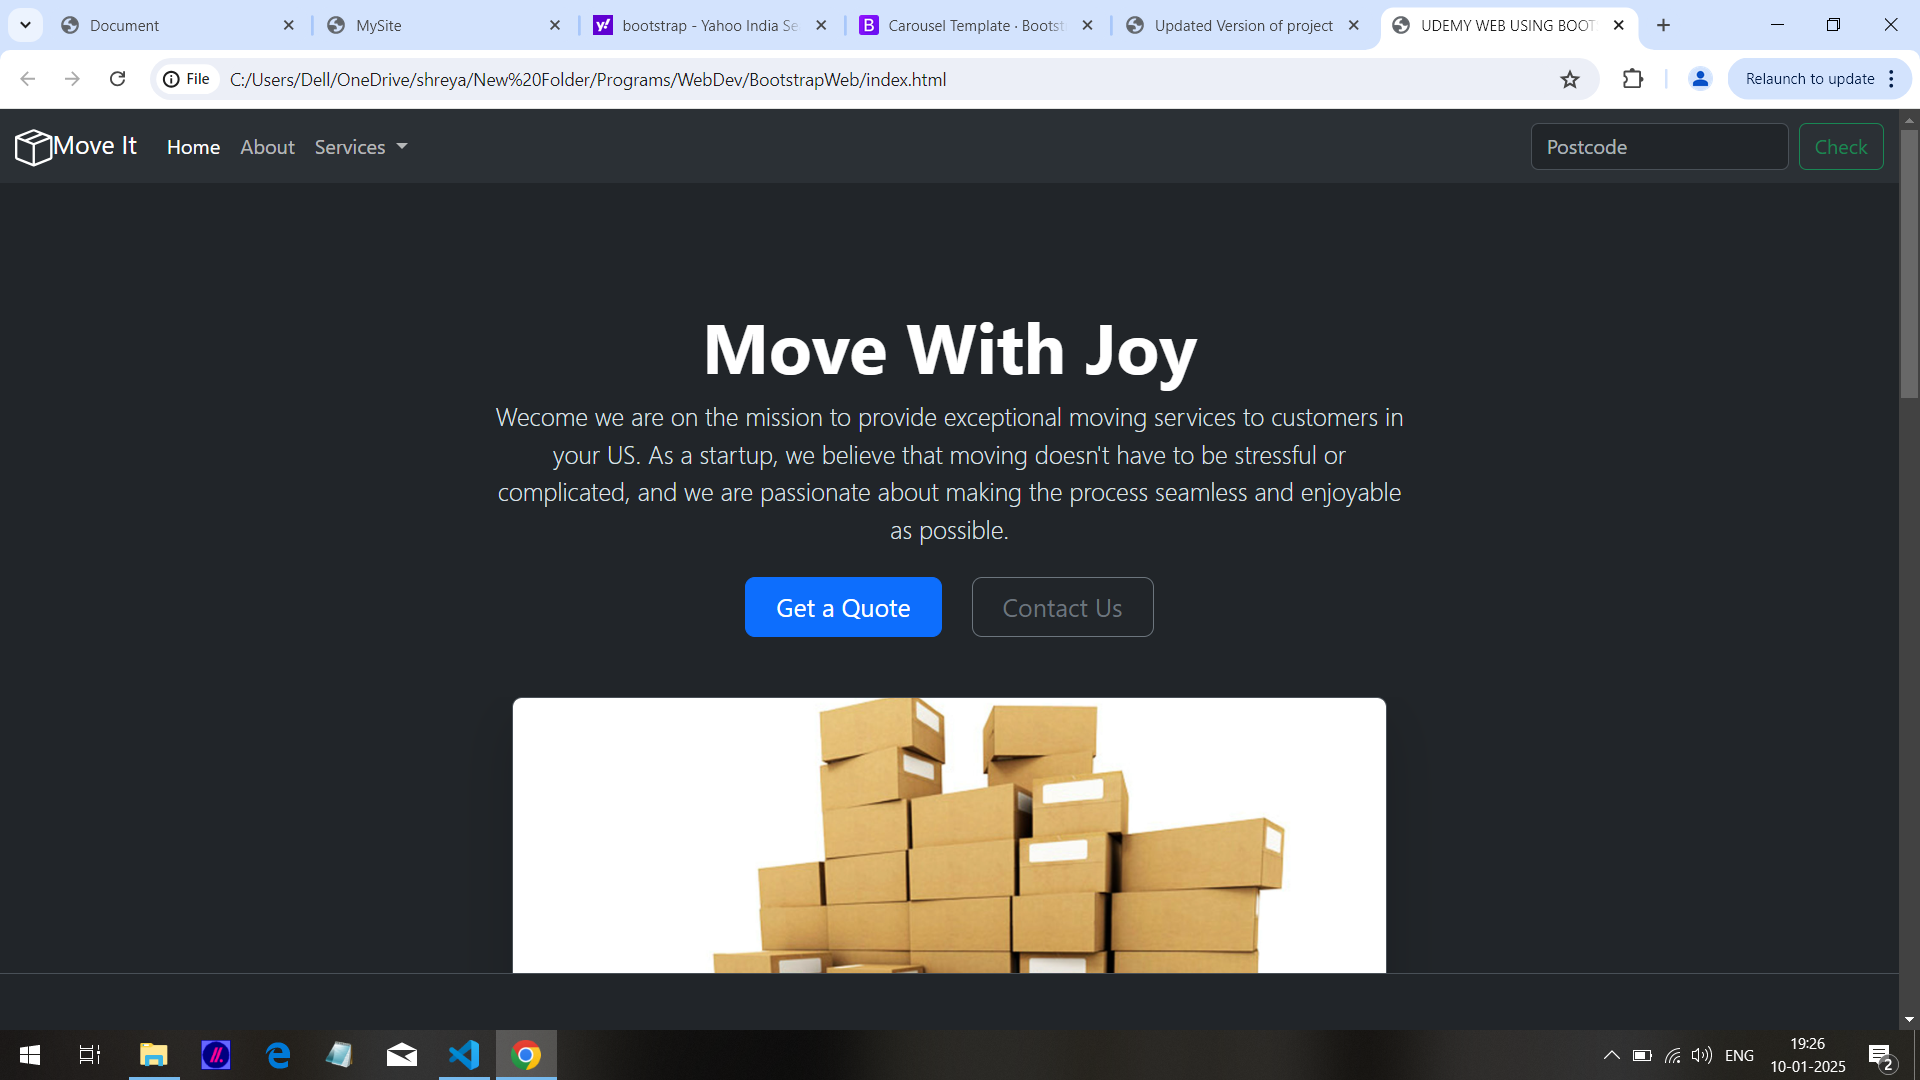
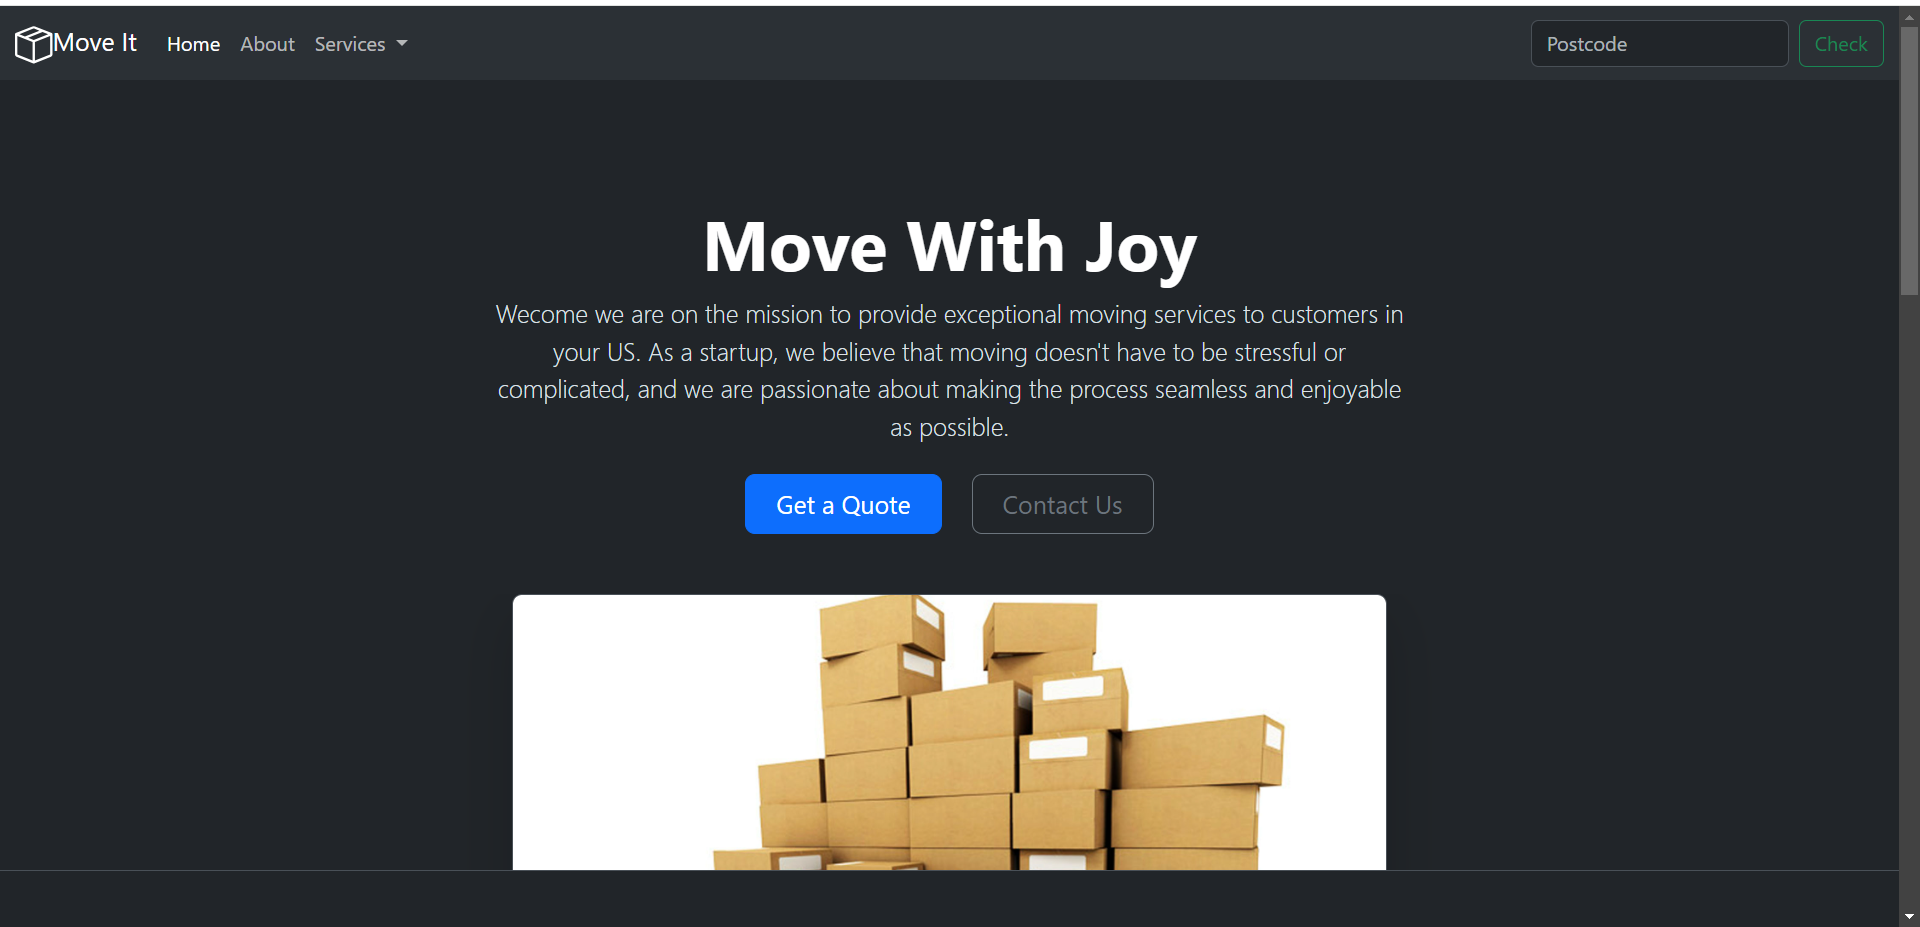
added project

diff --git a/src/components/Project/projects.jsx b/src/components/Project/projects.jsx
@@ -2,80 +2,224 @@ import Carousel from "react-bootstrap/Carousel";
 import styles from "./projects.module.css";
 
 const Projects = () => {
-  return (
-    <section className={styles.projectSection}>
-      <h1 className={styles.heading}>Projects</h1>
+    return (
+        <section className={styles.projectSection}>
+            <h1 className={styles.heading}>Projects</h1>
 
-      <Carousel fade interval={3000}>
-        
-        {/* Project 1 */}
-        <Carousel.Item>
-          <img
-            className={styles.carouselImage}
-            src="./Screenshot (30).png"
-            alt="First project"
-          />
+            <Carousel fade interval={3000}>
 
-          <Carousel.Caption>
-            <h3>Employee Entry System</h3>
-            <p>
-              Secure employee login and management system developed during internship.
-            </p>
-            
-            <button className="btn btn-light"><a href="https://shreya-103.github.io/employee-entry-login" className="styles.link"></a> View </button>
-          </Carousel.Caption>
-        </Carousel.Item>
+                {/* Project 1*/}
+                <Carousel.Item>
+                    <img
+                        className={styles.carouselImage}
+                        src="./Screenshot (30).png"
+                        alt="Landing page - bootstrap"
+                    />
 
-        {/* Project 2 */}
-        <Carousel.Item>
-          <img
-            className={styles.carouselImage}
-            src="./Screenshot (69).png"
-            alt="Second project"
-          />
+                    <Carousel.Caption>
+                        <h3>Landing page using bootstrap</h3>
+                        <p>
+                            Responsive landing page made using bootstrap components.
+                        </p>
 
-          <Carousel.Caption>
-            <h3>Currency Converter</h3>
-            <p>
-              Real-time currency conversion using exchange rate API.
-            </p>
-          </Carousel.Caption>
-        </Carousel.Item>
+                        <button className="btn btn-dark">
+                            <a href="https://shreya-103.github.io/web-using-bootstrap">View</a>
+                        </button>
+                    </Carousel.Caption>
+                </Carousel.Item>
 
-        {/* Project 3 */}
-        <Carousel.Item>
-          <img
-            className={styles.carouselImage}
-            src="./Screenshot (81).png"
-            alt="Third project"
-          />
+                {/* Project 2*/}
+                <Carousel.Item>
+                    <img
+                        className={styles.carouselImage}
+                        src="./Screenshot (93).png"
+                        alt="Currency Converter"
+                    />
 
-          <Carousel.Caption>
-            <h3>Image Gallery App</h3>
-            <p>
-              Dynamic image fetching and responsive gallery using React.
-            </p>
-          </Carousel.Caption>
-        </Carousel.Item>
+                    <Carousel.Caption>
+                        <h3>Currency Converter</h3>
+                        <p>
+                            Real-time currency conversion using exchange rate API.
+                        </p>
+                        <button className="btn btn-dark">
+                            <a href="https://shreya-103.github.io/currency-converter">View</a>
+                        </button>
+                    </Carousel.Caption>
+                </Carousel.Item>
 
-{/* Project 4 */}
-<Carousel.Item>
-          <img
-            className={styles.carouselImage}
-            src="./Screenshot (69).png"
-            alt="Second project"
-          />
+                {/* Project 3 */}
+                <Carousel.Item>
+                    <img
+                        className={styles.carouselImage}
+                        src="./Screenshot (98).png"
+                        alt="Notes App"
+                    />
 
-          <Carousel.Caption>
-            <h3>Currency Converter</h3>
-            <p>
-              Real-time currency conversion using exchange rate API.
-            </p>
-          </Carousel.Caption>
-        </Carousel.Item>
-      </Carousel>
-    </section>
-  );
+                    <Carousel.Caption>
+                        <h3>Notes App</h3>
+                        <p>
+                            Dynamic image fetching and responsive gallery using React.
+                        </p>
+                        <button className="btn btn-dark">
+                            <a href="https://shreya-103.github.io/Notes-App">View</a>
+                        </button>
+                    </Carousel.Caption>
+                </Carousel.Item>
+
+
+                {/* Project last */}
+                <Carousel.Item>
+                    <img
+                        className={styles.carouselImage}
+                        src="./Screenshot (81).png"
+                        alt="First project"
+                    />
+
+                    <Carousel.Caption>
+                        <h3>Employee Entry System</h3>
+                        <p>
+                            Secure employee login and management system developed during internship.
+                        </p>
+
+                        <button className="btn btn-dark">
+                            <a href="https://shreya-103.github.io/employee-entry-login" 
+                        >View</a> </button>
+                    </Carousel.Caption>
+                </Carousel.Item>
+            </Carousel>
+        </section>
+    );
 };
 
 export default Projects;
+
+//  <div class="card">
+//         <img src="./images/Screenshot (30).png" alt="Packers and Movers">
+//         <div class="card-body">
+//           <h5 class="card-title">Packers & Movers Static</h5>
+
+//           <p class="project-detail">
+//             Modern and responsive Packers & Movers landing page built using Bootstrap.
+//           </p>
+
+//           <p class="project-detail">
+//             Features a clean dark-themed UI, mobile-friendly layout, smooth section spacing, and optimized design for
+//             all screen sizes.
+//           </p>
+
+//           <a href="https://shreya-103.github.io/Web-Using-Bootstrap" class="btn btn-secondary">View</a>
+//         </div>
+//       </div>
+
+
+//       <!-- Card 3 -->
+//       <div class="card">
+//         <img src="./images/Screenshot (96).png" alt="Bond Calculator">
+
+//         <div class="card-body">
+//           <h5 class="card-title">Calculate Bond</h5>
+
+//           <p class="project-detail">
+//             Interactive JavaScript project that calculates a fun bond percentage between two names.
+//           </p>
+
+//           <p class="project-detail">
+//             Uses random number generation in JavaScript to create dynamic results with a playful and engaging user
+//             experience.
+//           </p>
+
+//           <a href="https://shreya-103.github.io/Calculate-Bond/" class="btn btn-secondary">View</a>
+//         </div>
+//       </div>
+
+//       <!-- Card 4 -->
+//       <div class="card">
+//         <img src="./images/Screenshot (68).png" alt="Tic Tac Toe">
+
+//         <div class="card-body">
+//           <h5 class="card-title">Tic Tac Toe</h5>
+
+//           <p class="project-detail">
+//             Classic two-player Tic Tac Toe game developed using JavaScript.
+//           </p>
+
+//           <p class="project-detail">
+//             Includes responsive design, interactive gameplay, turn-based logic, and a clean modern user interface for
+//             smooth user experience.
+//           </p>
+
+//           <a href="https://shreya-103.github.io/tic-tac-toe/" class="btn btn-secondary" style="margin-top:1.5rem;">View</a>
+//         </div>
+//       </div>
+
+//       <!-- Card 6 -->
+//       <div class="card">
+//   <img src="./images/Screenshot (81).png" alt="employee-entry-system">
+
+//   <div class="card-body">
+//     <h5 class="card-title">Employee Entry System</h5>
+
+//     <p class="project-detail" style="font-size: 13px;">
+//       A role-based employee entry management system developed during my internship at BEL.
+//       Features separate employee and admin login authentication with a responsive UI.
+//     </p>
+
+//     <p class="project-detail" style="font-size: 13px;">
+//       Built using HTML, CSS, JavaScript.
+//     </p>
+
+//     <p class="project-detail">
+//       Employee ID: UPT223 | Password: 12345
+//     </p>
+
+//     <p class="project-detail">
+//       Admin: admin | Password: 1234
+//     </p>
+
+//     <a href="https://shreya-103.github.io/employee-entry-login"
+//        class="btn btn-secondary">
+//        View
+//     </a>
+//   </div>
+// </div>
+
+//       <!-- card 7-->
+//       <div class="card">
+//         <img src="./images/Screenshot (93).png" alt="Currency-Converter">
+//         <div class="card-body">
+//           <h5 class="card-title">Currency Converter</h5>
+//           <p class="project-detail">
+//             A responsive Currency Converter web app built using HTML, CSS, and JavaScript that converts currencies using
+//             real-time exchange rates.
+//           </p>
+
+//           <p class="project-detail">
+//             Features include dynamic country flags, currency swapping, live conversion updates, API integration, and a
+//             clean mobile-friendly user interface.
+//           </p>
+//           <a href="https://shreya-103.github.io/currency-converter/" class="btn btn-secondary">View</a>
+//         </div>
+//       </div>
+
+//       <!-- Card 8 -->
+//       <div class="card">
+//         <img src="./images/Screenshot (98).png" alt="Notes App">
+
+//         <div class="card-body">
+//           <h5 class="card-title">Notes App</h5>
+
+//           <p class="project-detail">
+//             A responsive Notes App built using React that allows users to create, search, and manage notes efficiently
+//             with a clean and interactive UI.
+//           </p>
+
+//           <p class="project-detail">
+//             Integrated localStorage for persistent data saving, dark mode support, real-time updates, and responsive
+//             design for seamless usage across devices.
+//           </p>
+
+//           <a href="https://shreya-103.github.io/Notes-App/" class="btn btn-secondary">
+//             View
+//           </a>
+//         </div>
+//       </div>

diff --git a/src/components/Project/projects.module.css b/src/components/Project/projects.module.css
@@ -1,7 +1,7 @@
 .projectSection {
   min-height: 70vh;
   padding: 5rem 2rem;
-  background: #7897de;
+  background: #ffffff;
 }
 
 .heading {
@@ -24,34 +24,38 @@
 }
 
 /* Caption Styling */
-.carousel-caption {
+
+:global(.carousel-caption) {
   bottom: 20%;
 }
 
-.carousel-caption h3 {
+:global(.carousel-caption h3) {
   font-size: 2rem;
   font-weight: bold;
+  color: crimson;
 }
 
-.carousel-caption p {
+:global(.carousel-caption p) {
   font-size: 1.1rem;
+  color: crimson;
 }
 
 /* Mobile Responsive */
 @media (max-width: 768px) {
+
   .carouselImage {
-    height: 300px;
+    height: 600px;
   }
 
   .heading {
     font-size: 2rem;
   }
 
-  .carousel-caption h3 {
+  :global(.carousel-caption h3) {
     font-size: 1.2rem;
   }
 
-  .carousel-caption p {
+  :global(.carousel-caption p) {
     font-size: 0.8rem;
   }
 }
